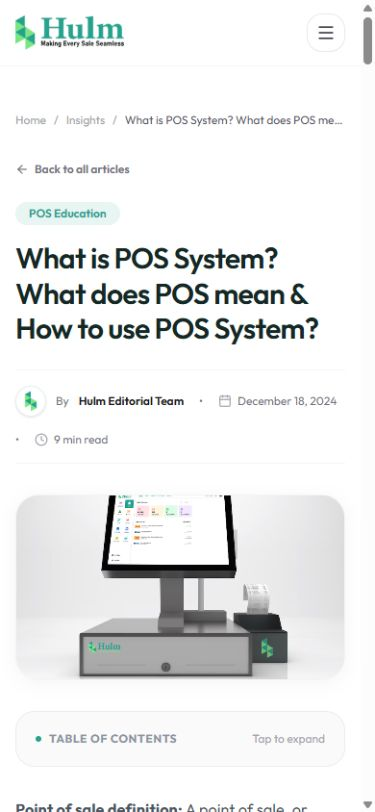
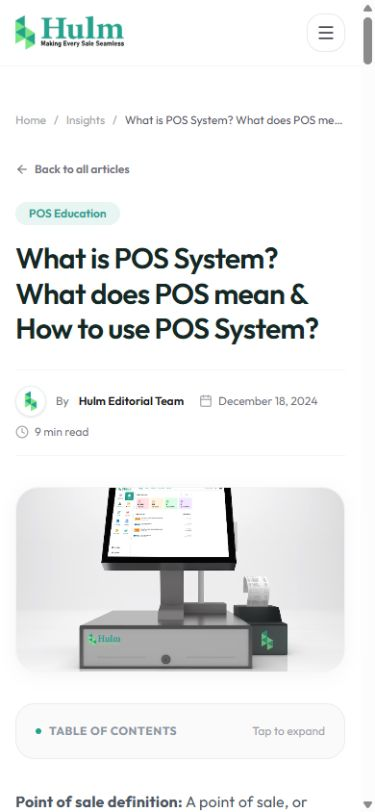
refresh final mobile QA evidence

diff --git a/planning/staging-visual-audit-2026-09-24/README.md b/planning/staging-visual-audit-2026-09-24/README.md
@@ -36,7 +36,7 @@ Viewports: desktop `1536 × 673`; mobile `390 × 844`
 - `05-insights-desktop.png` — insights index desktop
 - `06-article-desktop.png` — long-form article desktop
 - `07-home-mobile.png` — homepage mobile
-- `08-article-mobile.png` — article mobile before the separator fix was deployed
+- `08-article-mobile.png` — article mobile after the separator and landmark fixes were deployed
 - `09-mobile-menu.png` — mobile navigation drawer
 
 ## Evidence limits
